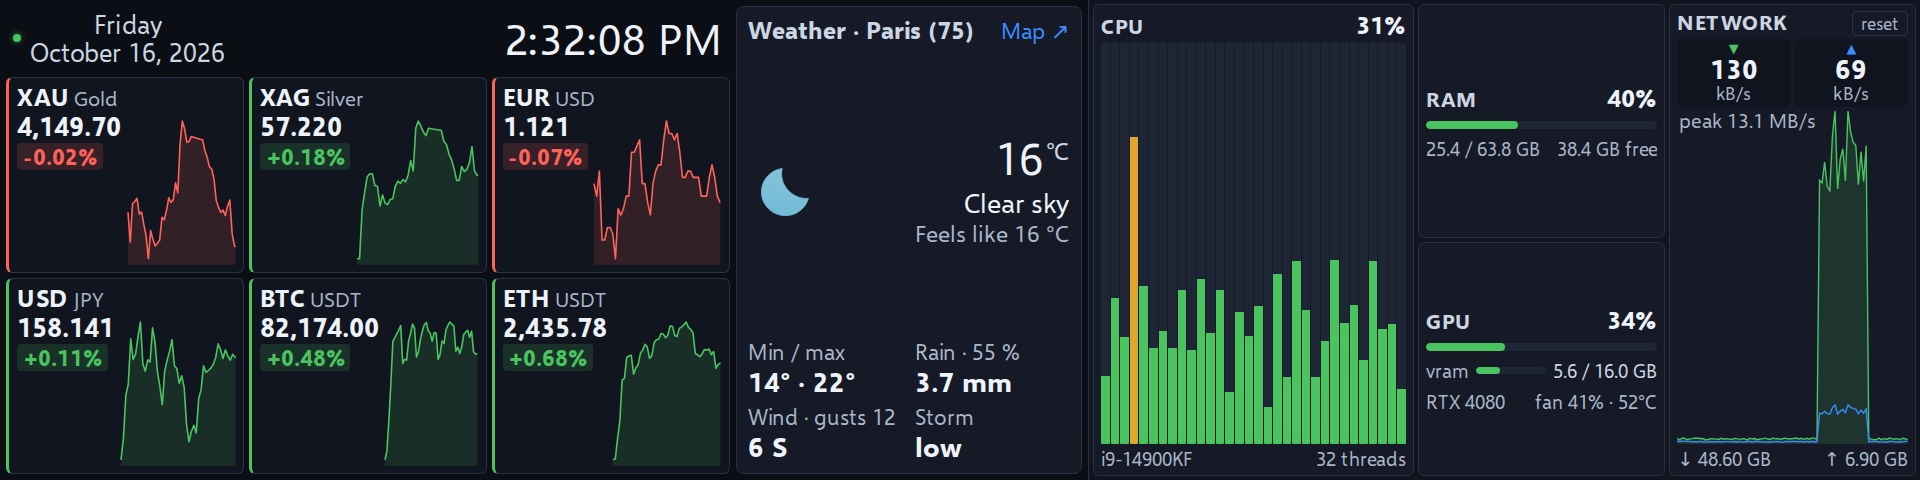
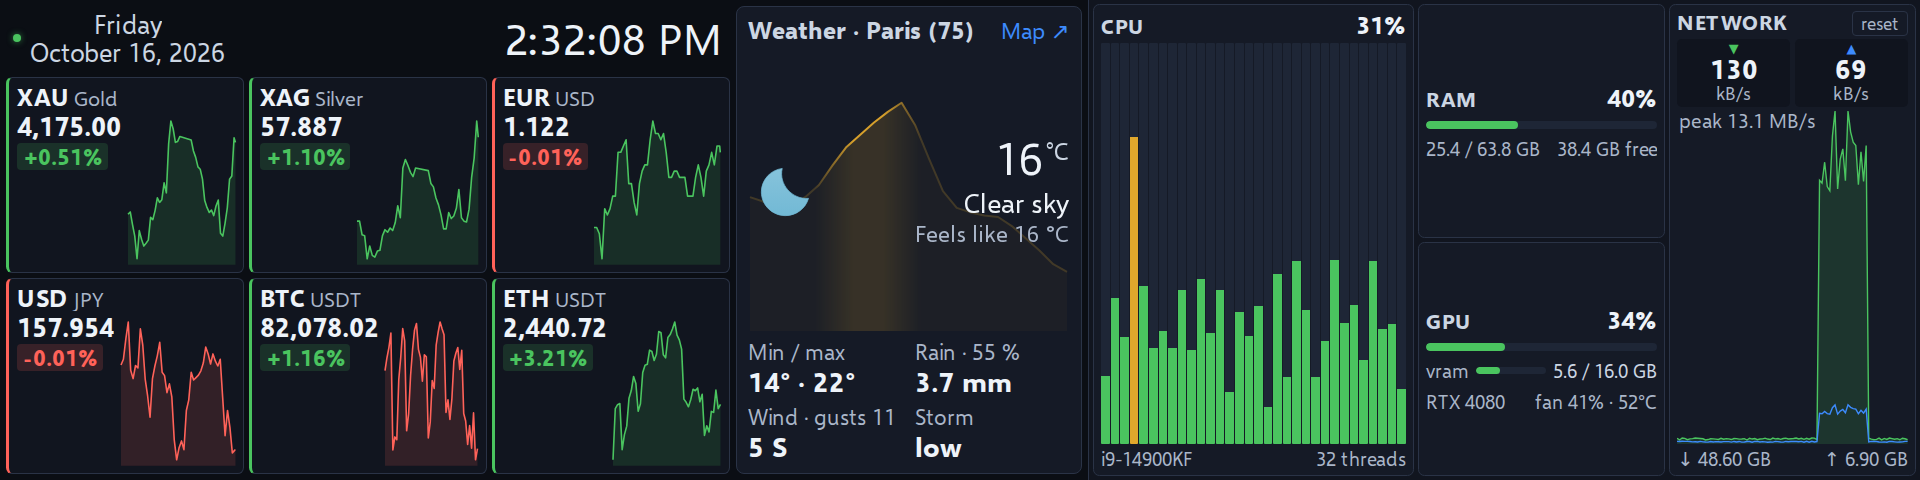
README: weather detail, refreshed screenshots

diff --git a/README.md b/README.md
@@ -40,7 +40,10 @@ after three missed cycles, and the status dot turns red (details in its tooltip)
 
 **Weather** — current conditions and today's forecast for the city you pick:
 temperature, feels-like, min/max, rain, wind and gusts, thunderstorm risk
-(CAPE). A click opens the Windy map.
+(CAPE). Behind the icon and the temperature, a faded curve shows the next
+24 hours; a click on it opens them hour by hour (temperature and feels-like,
+rain chance and amount, wind and gusts, sunrise and sunset). The rest of the
+card opens the Windy map.
 
 **System** — refreshed every second, independently of the markets.
 
@@ -68,7 +71,10 @@ from sunset to sunrise at the weather city), start at login.
 covering your main screen, and comes back with it.
 
 <p align="center">
+  <img src="docs/screenshots/weather-detail.png" width="360" alt="Next 24 hours: temperature and feels-like, rain chance, wind and gusts, hour by hour">
   <img src="docs/screenshots/chart.png" width="360" alt="Full-screen gold chart over one week">
+</p>
+<p align="center">
   <img src="docs/screenshots/settings.png" width="360" alt="Settings: themes, target screen, resolution, zoom, night mode">
 </p>
 
